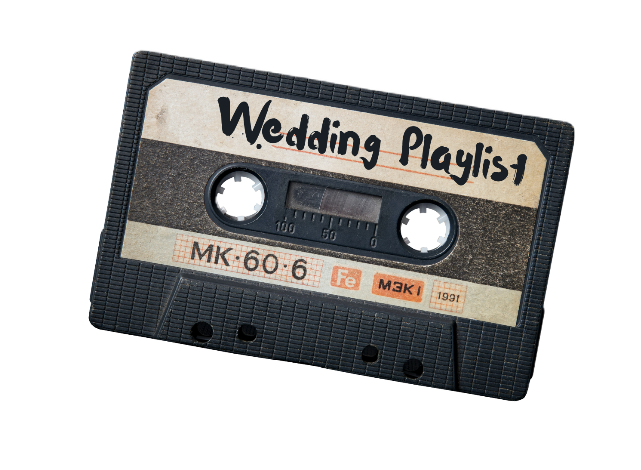
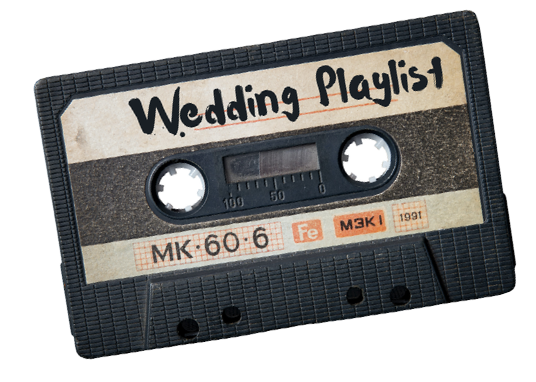
Add files via upload

diff --git a/public/playlist.css b/public/playlist.css
@@ -7,9 +7,9 @@ body {
   /* background: -webkit-linear-gradient(rgb(252, 221, 221, 1),rgb(247, 247, 247, 1)); */
   /* background-attachment: fixed; */
   font-size: 14px;
-  line-height: 1.428;
+  line-height: 1.5;
   background:white;
-  color: black;
+  color: rgba(0, 0, 0, 0.794);
   font-family: 'Lato', sans-serif;
   margin: 0;
 }
@@ -43,6 +43,8 @@ header, .header {
   text-align: center;
   float: left;
   margin-top: 25px;
+  margin-left: 40px;
+
 
 }
 .nav2{
@@ -54,8 +56,8 @@ header, .header {
 /* base navigation */
 
 .navi{
-  margin-left: 90px;
-  font-size: 13px;
+  margin-left: 130px;
+  font-size: 15px;
   font-weight: bold;
 }
 
@@ -68,7 +70,7 @@ header, .header {
   font-weight: 450;
   line-height: 1.1;
   text-align: center;
-  margin-top: 40px;
+  /* margin-top: 40px; */
 }
 #welcome{
   text-align: right;
@@ -77,11 +79,18 @@ header, .header {
   background-size:auto;
   background-repeat:repeat-y;
   background-position: fixed;
+  float: right;
+  margin-right: 200px;
+
 }
 #welcome2{
   margin: 15px auto;
-  width: 700px;
-
+  width: 470px;
+  height:400px;
+  background-color: rgb(182, 128, 214,0.5);
+  padding:25px;
+  border-radius: 20px;
+  margin-top: 25px;
 }
 /* countdown */
 .dateSection{
@@ -93,12 +102,11 @@ header, .header {
 }
 #myCountdown{
   font-family: Lato, Helvetica, sans-serif;
-  font-size: 35px;
+  font-size: 24px;
   font-weight:300;
   color: black;
   line-height: 1.1;
-  margin-top: 30px;
-  float: left;
+  margin-top: 10px;
 
 }
 
@@ -176,6 +184,7 @@ h1{
 nav{
   margin-bottom: 10px;
 }
+/* NAVIGATION BUTTONS */
 .btn-nav {
   color:black;
   width: 80px;
@@ -184,7 +193,6 @@ nav{
   margin-top: 4%;
   margin-left: 4px;
   margin-right: 4px;
-  border: 1px solid black;
 
   /* box-shadow: 4px 4px black;
   border: 1px solid rgb(100, 18, 120); */
@@ -217,29 +225,33 @@ nav{
 /*** template for boxes ***/
 .left {
   font-family: Lato, Helvetica, sans-serif;
-  font-size:13px;
-  font-weight: 400;
+  font-size:12px;
+  font-weight: 420;
   height: 380px;
-  width: 390px;
-  box-shadow: 20px 20px rgba(241,117,159);
+  width: 420px;
+  box-shadow: 15px 15px rgba(255, 194, 71, 0.875);
+  ;
   overflow: scroll;
-  padding: 20px;
-  border-radius: 30px;
-  background-color: black;
-  color:rgba(241,117,159);
+  padding: 4px;
+  border-radius: 10px;
+  background-color: rgba(0, 0, 0, 0.7);
+  color:white;
   margin: 15px auto;
-  margin-top: 50px;
+  margin-top: 20px;
 }
 li.tracks{
-  height:150px
+  height:110px
 }
 .trackInfo{
-  margin-left: 150px;
+  margin-left: 130px;
   position:relative;
   bottom:90px;
 }
 .albumCover{
-  width: 30%;
+  width: 25%;
+}
+.albumName{
+  width: 80px;
 }
 #player{
   margin-top:5px;
@@ -274,6 +286,7 @@ li.tracks{
   list-style: none;
   padding-top: 2%;
   margin: 2px auto;
+  padding-left: 15px;
 }
 
 /* new/saved images */
@@ -291,7 +304,7 @@ footer{
 
 
 .music-container {
-  background-color: rgb(61,102,163);
+  background-color: rgb(239, 191, 95);
   opacity: .9;
   box-shadow: 0 20px 20px 0 rgba(252, 169, 169, 0.6);
   display: flex;
@@ -352,9 +365,9 @@ footer{
 }
 
 .action-btn {
-  background-color: rgb(61,102,163);
+  background-color: rgb(239, 191, 95);
   border: 0;
-  color: #dfdbdf;
+  color: white;
   font-size: 20px;
   cursor: pointer;
   padding: 10px;
@@ -362,8 +375,12 @@ footer{
 }
 
 .action-btn.action-btn-big {
-  color: #cdc2d0;
+  background-color: rgb(239, 191, 95);
+  color: white;
   font-size: 30px;
+}
+.action-btn.action-btn-big:hover {
+  color: rgb(148, 24, 205);
 }
 
 .action-btn:focus {
@@ -371,16 +388,15 @@ footer{
 }
 
 .music-info {
-  background-color: rgb(61,102,163);
   color:white;
   font-family: Lato, Helvetica, Arial;
   border-radius: 15px 15px 0 0;
-  position: absolute;
-  top:20px;
+  position: fixed;
+  bottom: 10px;
   right: 50px;
   text-align: right;
   /* padding: 10px 10px 10px 150px; */
-  opacity: 0;
+  opacity: 1;
   transform: translateY(0%);
   transition: transform 0.3s ease-in, opacity 0.3s ease-in;
   z-index: 0;
@@ -405,7 +421,7 @@ footer{
 }
 
 .progress {
-  background-color: #fe8daa;
+  background-color: rgb(148, 24, 205);
   border-radius: 5px;
   height: 100%;
   width: 0%;
@@ -415,7 +431,7 @@ footer{
 
 /*** playlist ***/
 .purple{
-  color: #fe8daa;
+  color: rgba(241, 218, 117, 0.9);
 }
 
 audio::-webkit-media-controls-timeline,
@@ -454,33 +470,40 @@ audio{
 }
 .playlistBody{
   background-image: url('../public/images/casette.png');
-  background-size:250px;
   background-repeat:no-repeat;
-  background-position: 300px 150px;
+  background-size: 180px;
+  background-position: 26px 10px;
   background-position: fixed;
-  height: 1000px;
 }
 .right {
-  width: 450px;
+  width: 390px;
   height: 280px;
   text-align: left;
   overflow: scroll;
-  border-radius: 20px;
-  border: 1px solid black;
-  color: black;
+  border-radius: 10px;
+  color: white;
+  background: rgba(42, 51, 115, 0.7);
   margin: 15px auto;
-  margin-top: 30px;
+  margin-left: 55px;
+  margin-top: 80px;
   margin-bottom: 40px;
-  box-shadow: 6px 6px rgba(254,189,98);
+  box-shadow: 24px 29px rgba(0, 0, 0, 0.8);
+  float:left;
 }
 .savedMusic{
-  padding:25px;
+  padding:10px 35px;
 }
-.favorited, .deleteSaved, .save{
-  /* margin-left: 25px; */
+.favorited, .deleteSaved{
+  color:black;
   text-align: right;
   display:flex;
   justify-items: right;
+}
+.save{
+  color:black;
+  float:right;
+  font-weight: bolder;
+
 }
 .favorited, .save{
   /* margin-right: 55px; */
@@ -513,8 +536,9 @@ ol img {
   /* margin-left:400px; */
   justify-items:right;
 }
-.fa-trash:hover {
-  color: rgb(108, 194, 255);
+li.movieList:hover,
+li.tracks:hover {
+  color: rgb(182, 128, 214);
 }
 
 .fa-trash {
@@ -523,7 +547,7 @@ ol img {
 }
 
 button:hover {
-  background-color: rgb(108, 194, 255);
+  color: rgb(148, 24, 205);
 }
 
 /*********** SONG PLANNER (NEW INSPO PAGE) ***********/
@@ -670,7 +694,7 @@ ul.messages{
   backface-visibility: hidden;
   position: absolute;
   top: 300px;
-  left: 140px;
+  left: 200px;
 }
 .middle {
   transition: .5s ease;
@@ -708,16 +732,16 @@ ul.messages{
 }
 .uploaded{
   width:430px;
-  /* background-image: url('../public/images/draft.png');
+  background-image: url('../public/images/draft.png');
   background-size:300px;
   background-repeat:no-repeat;
-  background-position: fixed; */
+  background-position: center;
   text-align: center;
   /* display:flex; */
-  margin-top: 30px;
+  margin-top: 5px;
   margin-bottom: 50px;
   height:500px;
-  /* float:right; */
+  float:left;
   margin-left: 50px;
 }
 .uploader{

diff --git a/app/routes.js b/app/routes.js
@@ -94,12 +94,12 @@ module.exports = function (app, passport, db) {
       { songTitle: 'Juicy by Notorious B.I.G', src: 'public/music/Juicy by Notorious B.I.G.mp3', cover: 'public/images/Juicy by Notorious B.I.G.jpg' },
       { songTitle: 'Like a Prayer by Madonna', src: 'public/music/Like a Prayer by Madonna.mp3', cover: 'public/images/Like a Prayer by Madonna.jpg' },
       { songTitle: 'One Two by Sister Nancy', src: 'public/music/One Two by Sister Nancy.mp3', cover: 'public/images/One Two By Sister Nancy.jpg' },
-      { songTitle: 'Piano Man by Billy Joel', src: 'public/music/Piano Man by Billy Joel.mp3', cover: 'public/images/Piano Man by Billy Joel.jpg' },
+      // { songTitle: 'Piano Man by Billy Joel', src: 'public/music/Piano Man by Billy Joel.mp3', cover: 'public/images/Piano Man by Billy Joel.jpg' },
       { songTitle: 'Reserved for You by Charles Bradley', src: 'public/music/Strictly Reserved for You by Charles Bradley.mp3', cover: 'public/images/Strictly Reserved for You by Charles Bradley.jpg' },
       { songTitle: 'Tennessee Whiskey by Chris Stapleton', src: 'public/music/Tennessee Whiskey by Chris Stapleton.mp3', cover: 'public/images/Tennessee Whiskey by Chris Stapleton.jpg' },
-      { songTitle: 'This Will Be (An Everlasting Love) by Natalie Cole', src: 'public/music/This Will Be (An Everlasting Love) by Natalie Cole.mp3', cover: 'public/images/This Will Be (An Everlasting Love) by Natalie Cole.jpg' },
-      { songTitle: 'Valerie by Amy Winehouse ft. Mark Ronson', src: 'public/music/Valerie by Amy Winehouse ft. Mark Ronson.mp3', cover: 'public/images/Valerie by Amy Winehouse ft. Mark Ronson.jpg' },
-      { songTitle: 'Walking On Sunshine by by Katrina And The Waves', src: 'public/music/Walking On Sunshine by Katrina And The Waves.mp3', cover: 'public/images/Walking On Sunshine by by Katrina And The Waves.jpg' },
+      { songTitle: 'This Will Be by Natalie Cole', src: 'public/music/This Will Be (An Everlasting Love) by Natalie Cole.mp3', cover: 'public/images/This Will Be (An Everlasting Love) by Natalie Cole.jpg' },
+      { songTitle: 'Valerie by Amy Winehouse', src: 'public/music/Valerie by Amy Winehouse ft. Mark Ronson.mp3', cover: 'public/images/Valerie by Amy Winehouse ft. Mark Ronson.jpg' },
+      // { songTitle: 'Walking On Sunshine by Katrina And The Waves', src: 'public/music/Walking On Sunshine by Katrina And The Waves.mp3', cover: 'public/images/Walking On Sunshine by by Katrina And The Waves.jpg' },
       { songTitle: 'You And I by Stevie Wonder', src: 'public/music/You And I by Stevie Wonder.mp3', cover: 'public/images/You And I by Stevie Wonder.jpg' },
 
 
